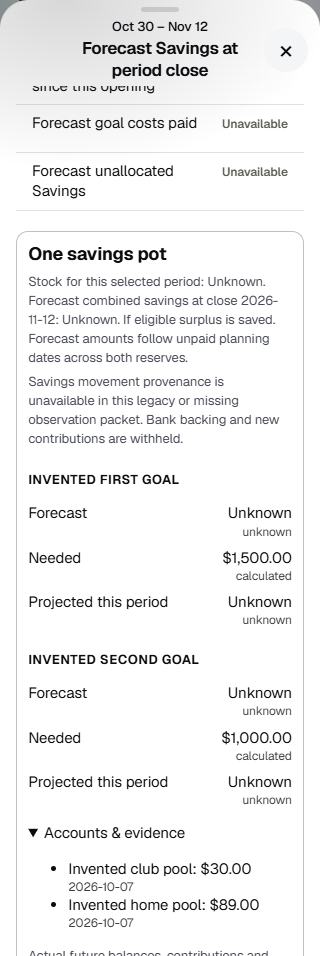
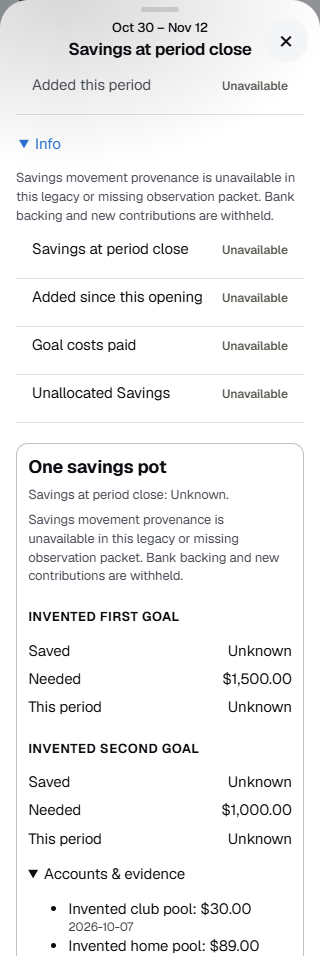
Refresh Savings proof for inclusive closes and quiet presentation

diff --git a/docs/proof/future-savings-closing-2026-10-14/README.md b/docs/proof/future-savings-closing-2026-10-14/README.md
@@ -10,8 +10,8 @@ authorities. Provenance and estimated scenario trust remain internal; the select
 period supplies context, with no added Forecast/Actual badges or ordinary
 assumption reminders. Genuine missing-data and native funding-gap failures remain.
 
-On released main `73b73b2b22b2dee2b367a04ba386de201bbae5bd`, the final 23-case
-acceptance specification fails 22 cases, with the existing outside-income-bound
+On released main `73b73b2b22b2dee2b367a04ba386de201bbae5bd`, the 23-case
+initial specification fails 22 cases, with the existing outside-income-bound
 control passing. Main has no closing-surplus publication. The earlier 11-case
 initial specification failed all 11 cases before implementation.
 
@@ -39,6 +39,19 @@ stock, pending movement, missing amounts/dates, missing receipts and unsupported
 periods remain unknown. Typed closing packets reject malformed date, source,
 permissions, currency, stock, items and actual-Saved promotions.
 
+The explicit inclusive-close additions use installments 80 due October 29 and
+60 due November 12. At the first close only the later installment remains; at
+the second close the group is gone and the pot is 1,979. Costs before/on/after
+the first closing date and repeated backward/forward selection are asserted.
+Current actual settlement is never changed by future date passage.
+
+The independent native-gap ledger starts with Savings 800, operating/floor 0,
+three 200 incomes and dated costs 500 / 600 / 400. The first two closes are
+500 and 100. The third close reports the native 100 funding gap and withholds
+allocations. This case failed on the initial PR head because a later gap hid
+all earlier closes; the bounded native-prefix repair now preserves those
+affordable closes without worsening the gap or inventing funding.
+
 ## Reproduction
 
 `node --test test/test-savings-future-closing.js`
@@ -57,17 +70,18 @@ page errors and horizontal overflow fail. The output binds served source bytes
 by SHA-256. A focused presentation fix removes the tile clipping class only
 while future Savings evidence is in its dialog and restores it on close.
 
-The [source-bound receipt](proof.json) records 12 passing browser cases and exact
-served bytes from code candidate `99348fa715ef7be5a5f979a69acd50a6e6a177ec`.
-The artifact commit preserves those runtime/test blobs. The 23 financial cases,
-all 88 released current-report regressions and 62 affected suites pass. Five
+The [source-bound receipt](proof.json) records 18 passing browser cases and exact
+served bytes from code candidate `d555109d109e17f00d34d3ed297a01f42a1b86b8`.
+The artifact commit preserves those runtime/test blobs. The 28 financial cases,
+all 88 released current-report regressions and 62 affected suites pass. Six
 complete native recommendation objects equal exact main after removing only
 the two new publication fields; the independent comparison script is
 `test/proof-savings-future-closing-before-after.js`.
 
 Selected invented screenshots: [ready at 320px](ready-320.png),
 [grouped at 320px](group-320.png), [expense at 390px](expense-390.png),
-[unknown at 320px](unknown-320.png).
+[unknown at 320px](unknown-320.png), [installments at 320px](installments-320.png),
+and [last affordable close before the gap](gap-320.png).
 
 Physical Safari and signed-in production acceptance, owner figures look and
 exact-head Systems Review remain separate release work.
